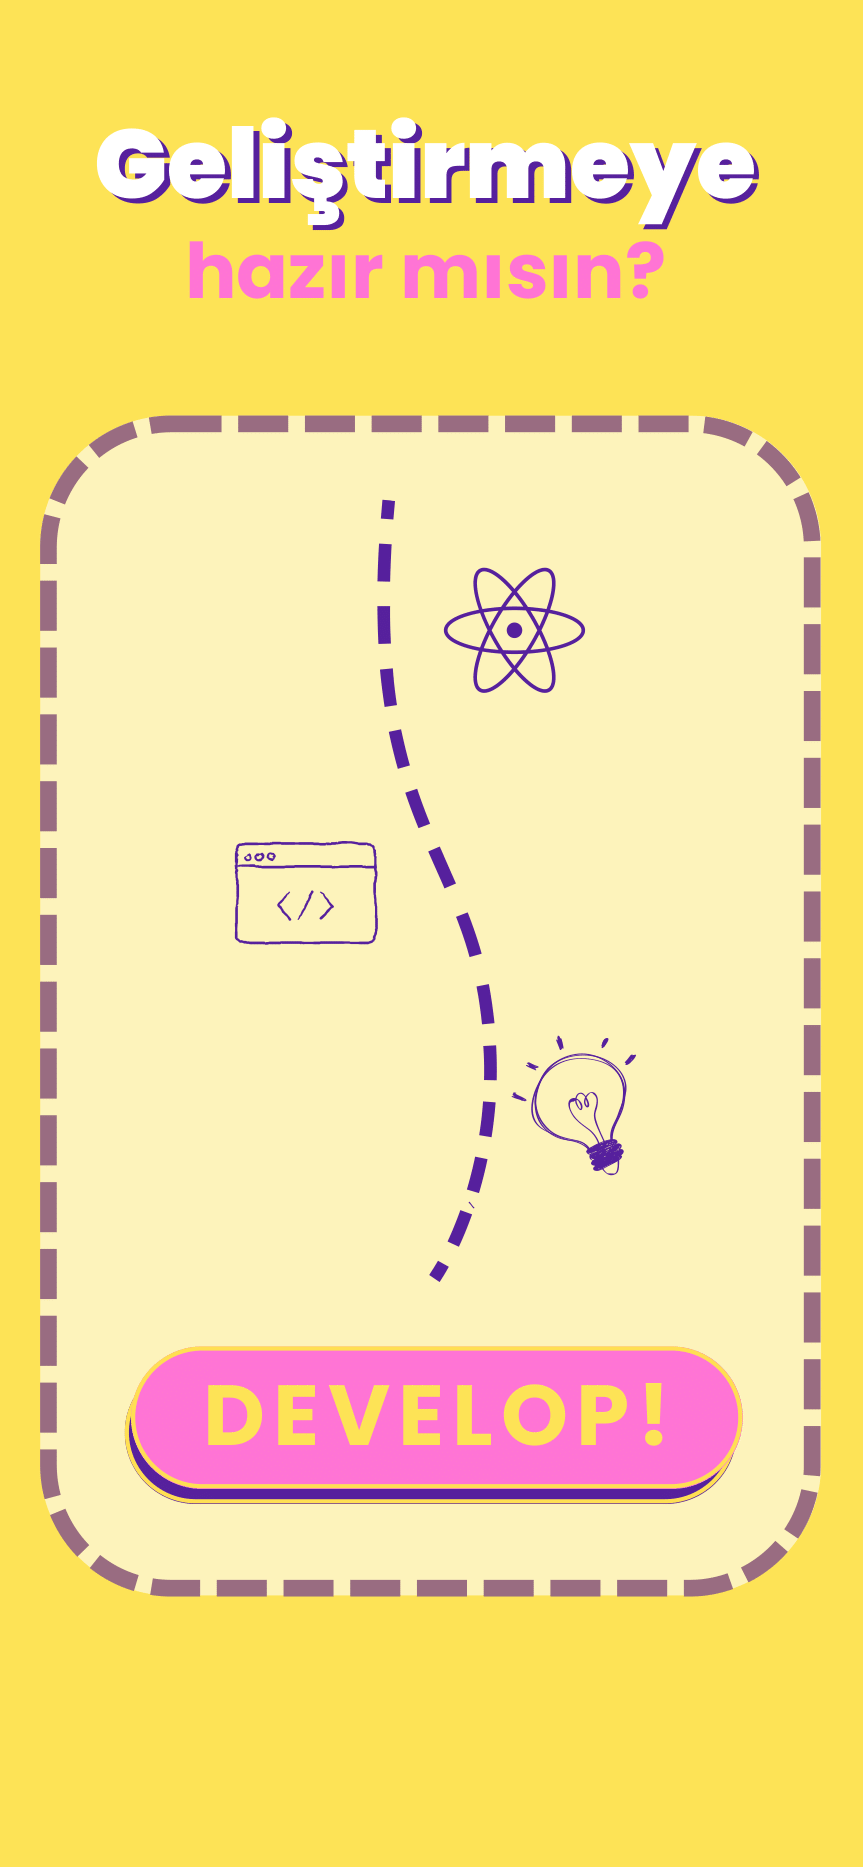
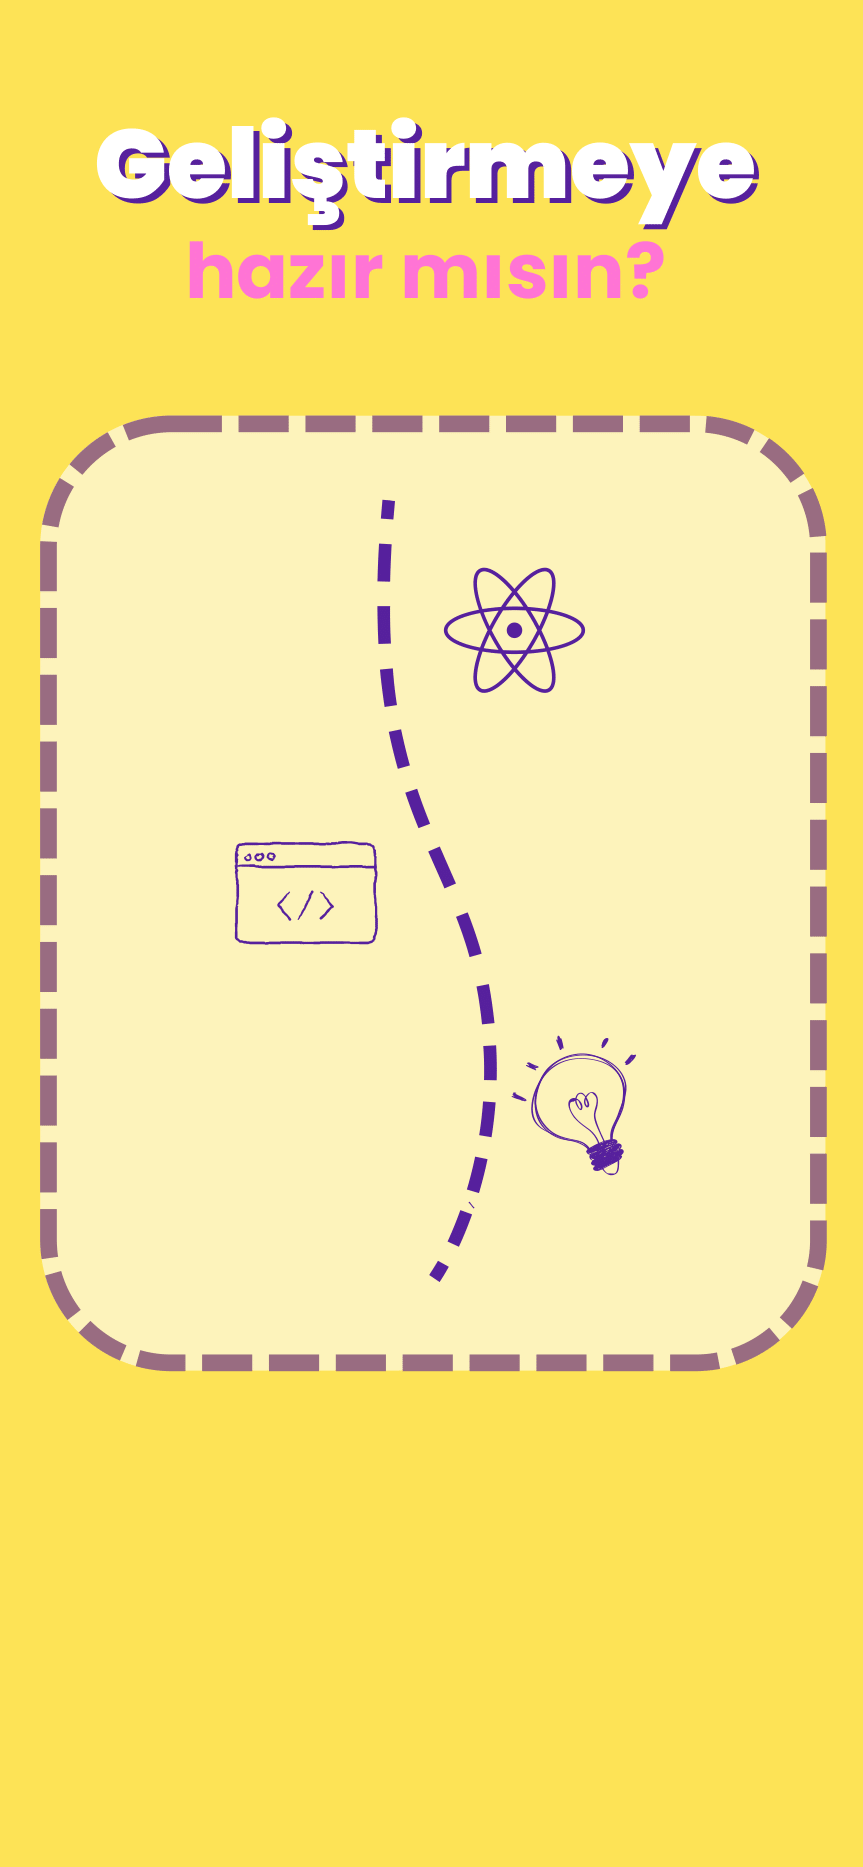
start yazısı, forgot password arkaplan

Changed region(s): [[0.0301, 0.2485, 0.9641, 0.8698], [0.0904, 0.2175, 0.1808, 0.2485], [0.8436, 0.2175, 0.9038, 0.2485]]

diff --git a/developapp/lib/pages/forgot_password.dart b/developapp/lib/pages/forgot_password.dart
@@ -92,7 +92,7 @@ class _ForgotPasswordPageState extends State<ForgotPasswordPage> {
                           child: Container(
                             padding: EdgeInsets.all(10),
                             height: 125,
-                            child: Image.asset('lib/images/logo2.png'),
+                            child: Image.asset('lib/images/logoson.png'),
                           ),
                         ),
                         SizedBox(height: 15),

diff --git a/developapp/lib/pages/intro_page4.dart b/developapp/lib/pages/intro_page4.dart
@@ -19,7 +19,7 @@ class IntroPage4 extends StatelessWidget {
             decoration: BoxDecoration(
               border: Border.symmetric(),
               image: DecorationImage(
-                image: AssetImage("lib/images/yeni.png"),
+                image: AssetImage("lib/images/4.png"),
                 fit: BoxFit.contain,
               ),
             ),

diff --git a/developapp/lib/components/my_button4.dart b/developapp/lib/components/my_button4.dart
@@ -21,6 +21,7 @@ class MyButton4 extends StatelessWidget {
           child: Text(
             text,
             style: const TextStyle(
+                decoration: TextDecoration.none,
                 color: Color(0xFFFDE456),
                 fontWeight: FontWeight.bold,
                 fontSize: 20),
